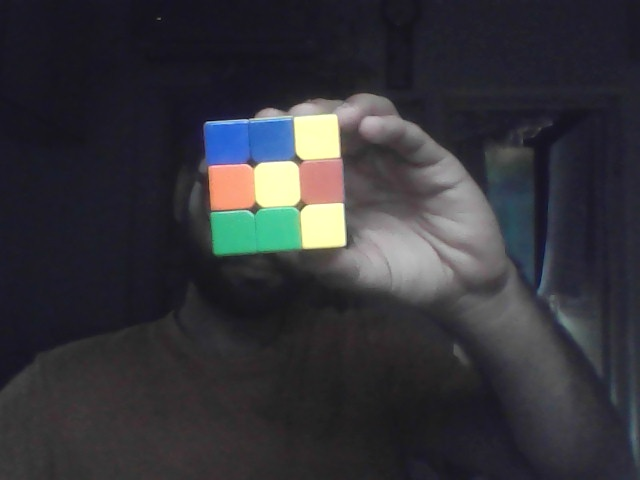
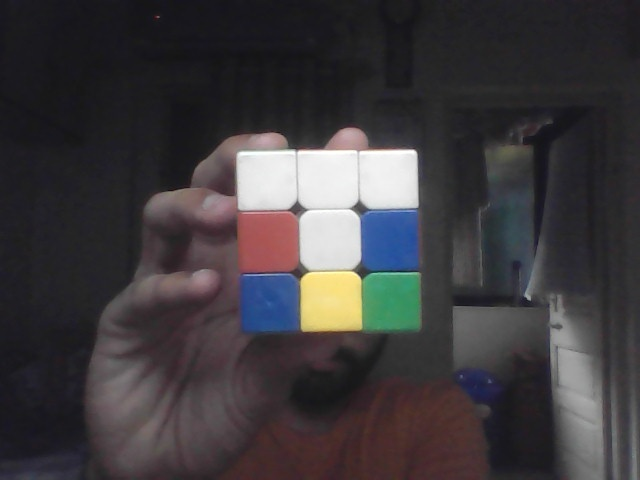
Add live scanner workflow

diff --git a/scanner/live_scanner.py b/scanner/live_scanner.py
@@ -27,6 +27,13 @@ while True:
 
         print("Image Captured")
 
+        import subprocess
+        import sys
+
+        subprocess.run(
+            [sys.executable, "scanner/color_detector.py"]
+        )
+
         break
 
     if key == ord("q"):

diff --git a/gui/cube_editor.py b/gui/cube_editor.py
@@ -547,7 +547,7 @@ class CubeEditor(QWidget):
             import sys
 
             subprocess.run(
-                [sys.executable, "scanner/color_detector.py"]
+                [sys.executable, "scanner/live_scanner.py"]
             )
 
             cube_scanner.load_cube_faces()